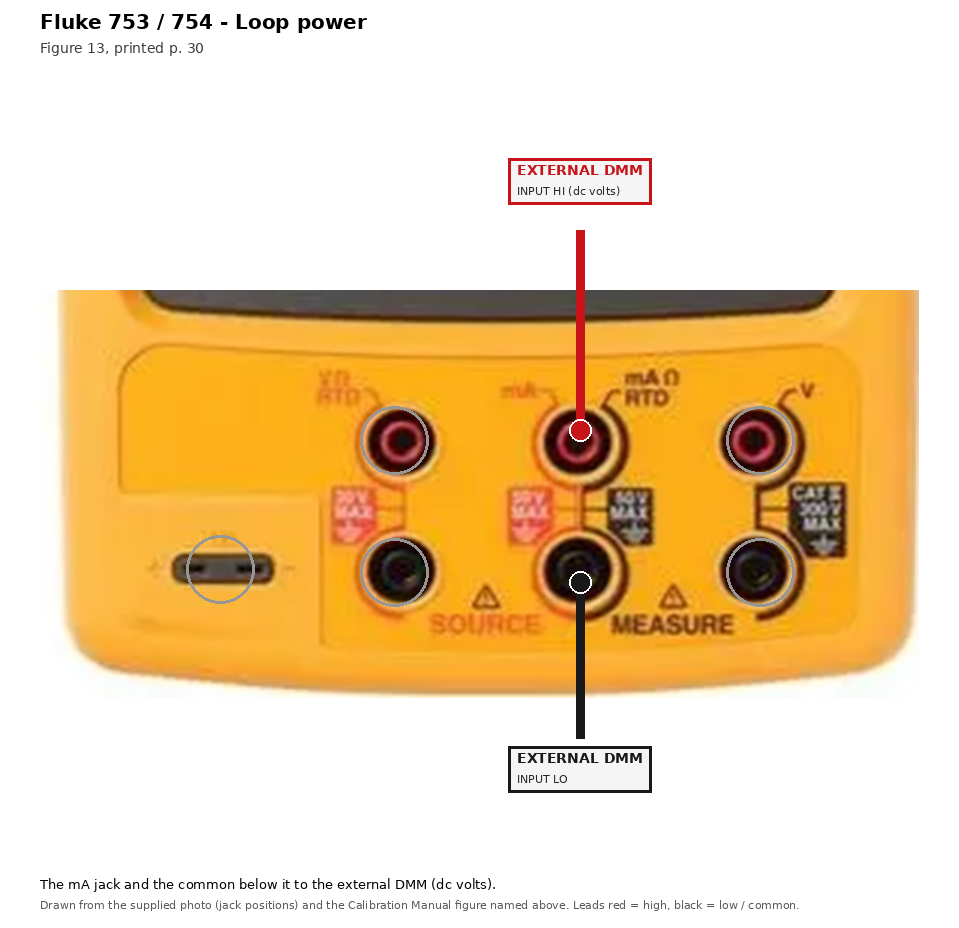
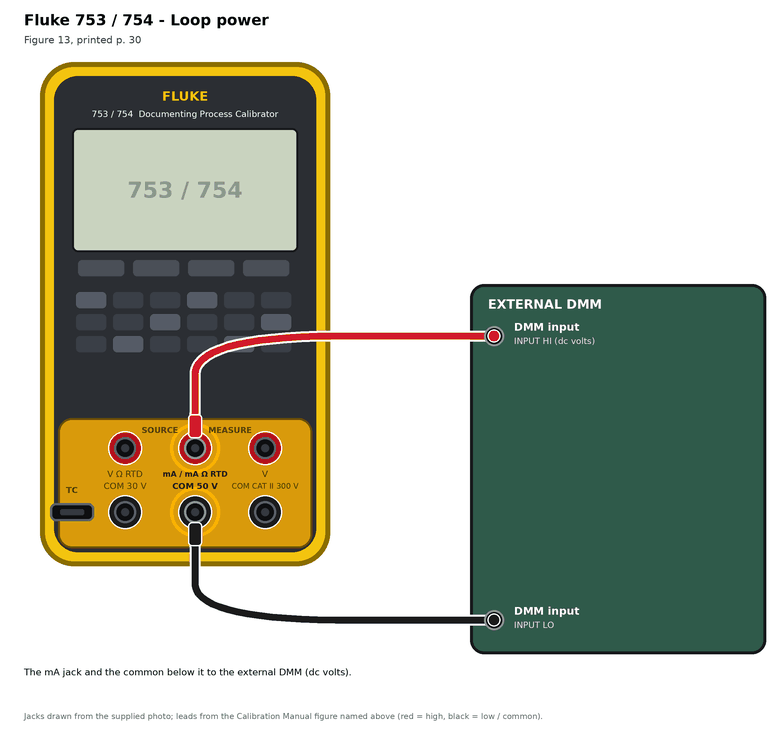
Fluke 753/754 hook-up diagrams redrawn as vectors in the handheld-meter style
Drawn 753/754 body with its jack block and TC mini-jack, drawn other-end
instrument, routed cables with white outline, used jacks ringed. Jack
positions and lead assignments unchanged (still the manual figures; the
UNVERIFIED notes are kept). Calibrator-independent: both 5522A and 5560A
terminal names are on each cable end.

Claude-Session: https://claude.ai/code/session_01VmnunfVAogpKCCPBXbw9cZ

diff --git a/specs/build_hookups_753.py b/specs/build_hookups_753.py
@@ -15,7 +15,7 @@ from __future__ import annotations
 
 from pathlib import Path
 
-from PIL import Image, ImageDraw, ImageFont
+import sys
 
 HERE = Path(__file__).resolve().parent
 ROOT = HERE.parent
@@ -73,72 +73,148 @@ GROUPS = {
 }
 
 
-def font(size, bold=False):
-    return ImageFont.truetype(FONT + ('DejaVuSans-Bold.ttf' if bold else 'DejaVuSans.ttf'), size)
+HERE_ = HERE
+sys.path.insert(0, str(HERE))
+from draw_kit import Pen, smooth                      # noqa: E402
+
+W, H = 780, 730
+YEL, FACE, EDGE = '#f3c40f', '#2b2e33', '#8a6d00'
+CABLE = {RED: '#d11a2a', BLACK: '#1b1b1b', GREY: '#e3b800'}
+AMBER = '#ffb300'
+# jacks drawn like the owner's photo: top row V Ohm RTD | mA, mA Ohm RTD | V (red surrounds), bottom row the three commons, TC mini-jack lower left
+DRAW = {'tl': (125, 448), 'tm': (195, 448), 'tr': (265, 448), 'bl': (125, 512), 'bm': (195, 512), 'br': (265, 512), 'tc': (72, 512)}
+LABEL = {'tl': 'V Ω RTD', 'tm': 'mA / mA Ω RTD', 'tr': 'V', 'bl': 'COM 30 V', 'bm': 'COM 50 V', 'br': 'COM CAT II 300 V'}
+TOP_LANES, BOTTOM_LANES = (336, 386), (620, 580)     # a lead from further left takes the lane further out, so no two cables cross
+DEV_X = 470
+
+
+def wrap(pen, text, size, width):
+    lines = []
+    for part in text.split('|'):
+        cur = ''
+        for word in part.strip().split():
+            if cur and pen.text_size(cur + ' ' + word, size, False)[0] > width:
+                lines.append(cur)
+                cur = word
+            else:
+                cur = (cur + ' ' + word).strip()
+        if cur:
+            lines.append(cur)
+    return lines
+
+
+def draw_753(pen, used, jumpers):
+    pen.rect(40, 62, 330, 566, r=34, fill=YEL, outline=EDGE, width=5)
+    pen.rect(54, 76, 316, 552, r=24, fill=FACE)
+    pen.text(185, 96, 'FLUKE', 13, YEL)
+    pen.text(185, 114, '753 / 754  Documenting Process Calibrator', 8.5, '#ffffff', bold=False)
+    pen.rect(72, 128, 298, 252, r=6, fill='#c9d3bf', outline='#16181b', width=2)
+    pen.text(185, 190, '753 / 754', 22, '#8e9a84')
+    for i in range(4):                                                  # soft keys
+        pen.rect(78 + i * 55, 260, 124 + i * 55, 276, r=4, fill='#4a4f57')
+    for r in range(3):                                                  # key block
+        for c in range(6):
+            pen.rect(76 + c * 37, 292 + r * 22, 106 + c * 37, 308 + r * 22, r=4, fill='#3a3f47' if (r + c) % 3 else '#555b66')
+    pen.rect(58, 418, 312, 548, r=14, fill='#d99a0b', outline='#6b4f00', width=2)          # the terminal panel (the owner's photo: orange-yellow plate)
+    for key, (x, y) in DRAW.items():
+        if key == 'tc':
+            pen.rect(x - 22, y - 9, x + 22, y + 9, r=6, fill='#0d0e10', outline='#8b919b' if key in used else '#5c626c', width=2.4)
+            pen.rect(x - 12, y - 3, x + 12, y + 3, r=2, fill='#333840')
+            if key in used:
+                pen.rect(x - 28, y - 15, x + 28, y + 15, r=9, outline=AMBER, width=3.2)
+            continue
+        ring = '#b3121c' if key[0] == 't' else '#1b1b1b'
+        if key in used:
+            pen.circle(x, y, 25, outline=AMBER, width=3.6)
+        pen.circle(x, y, 17, fill=ring, outline='#ffffff', width=1.6)
+        pen.circle(x, y, 11, fill='#0d0e10', outline='#8b919b' if key in used else '#5c626c', width=2.4)
+        pen.circle(x, y, 4, fill='#333840')
+
+
+def draw_labels(pen, used):
+    for key, text in LABEL.items():
+        x, y = DRAW[key]
+        y = y + 26 if key[0] == 't' else y - 26
+        size = 7.6 if len(text) > 8 else 8.4
+        pen.text(x, y, text, size, '#1b1b1b' if key in used else '#4a3300', bold=key in used)
+    pen.text(160, 430, 'SOURCE', 8, '#4a3300')
+    pen.text(230, 430, 'MEASURE', 8, '#4a3300')
+    x, y = DRAW['tc']
+    pen.text(x, y - 22, 'TC', 8.4, '#1b1b1b' if 'tc' in used else '#4a3300')
+
+
+def cable(pen, pts, color, width=7):
+    pts = smooth(pts, 4)
+    pen.line(pts, '#ffffff', width + 4)
+    pen.line(pts, color, width)
 
 
 def draw(group):
     title, figure, leads, jumpers, note = GROUPS[group]
-    photo = Image.open(PHOTO).convert('RGB')
-    pw, ph = photo.width * S, photo.height * S
-    photo = photo.resize((pw, ph), Image.LANCZOS)
-    top, bottom, side = 290, 230, 40
-    W, H = pw + 2 * side, ph + top + bottom
-    im = Image.new('RGB', (W, H), (255, 255, 255))
-    d = ImageDraw.Draw(im)
-    im.paste(photo, (side, top))
-    pos = {k: (side + x * S, top + y * S) for k, (x, y) in JACK.items()}
-    d.text((side, 10), f'Fluke 753 / 754 - {title}', font=font(20, True), fill=(0, 0, 0))
-    d.text((side, 40), figure, font=font(14), fill=(60, 60, 60))
+    pen = Pen(W, H, '#ffffff')
+    pen.text(24, 20, f'Fluke 753 / 754 - {title}', 15, '#000000', anchor='lm')
+    pen.text(24, 40, figure, 10, '#3c3c3c', bold=False, anchor='lm')
     used = {j for j, _c, _t in leads} | {a for a, b in jumpers} | {b for a, b in jumpers}
-    for k, (cx, cy) in pos.items():                                # the jacks not used: a grey cross-hatch ring so the used ones stand out
-        if k not in used:
-            d.ellipse([cx - 34, cy - 34, cx + 34, cy + 34], outline=(150, 150, 150), width=3)
-    # leads: top jacks go up to boxes above, bottom jacks go down; several leads on one jack fan out
-    groups = {}
+    draw_753(pen, used, jumpers)
+    # one plug per lead; leads on the same jack sit side by side
+    per = {}
     for lead in leads:
-        groups.setdefault(lead[0], []).append(lead)
-    boxes = []
-    for jack, items in groups.items():
-        cx, cy = pos[jack]
-        up = jack[0] == 't' and jack != 'tc'
-        for n, (j, colour, (l1, l2)) in enumerate(items):
-            dx = (n - (len(items) - 1) / 2) * 26
-            if jack == 'tc':
-                end = (side + 10 + n * 10, top + ph + 20 + n * 40)
-                start = (cx + (n - 0.5) * 16, cy)
-                bx, by = side, top + ph + 70 + n * 70
-            elif up:
-                start, end = (cx + dx * 0.4, cy - 10), (cx + dx, top - 60 - n * 0)
-                bx, by = cx + dx, top - 130
-            else:
-                start, end = (cx + dx * 0.4, cy + 10), (cx + dx, top + ph + 40)
-                bx, by = cx + dx, top + ph + 60
-            d.line([start, end], fill=colour, width=9)
-            d.ellipse([start[0] - 11, start[1] - 11, start[0] + 11, start[1] + 11], fill=colour, outline=(255, 255, 255), width=2)
-            boxes.append((bx, by, l1, l2, colour, up, jack))
-    for a, b in jumpers:
-        (ax, ay), (bx2, by2) = pos[a], pos[b]
-        d.arc([min(ax, bx2), ay - 10, max(ax, bx2), ay + 70], 0, 180, fill=BLACK, width=7)
-    # text boxes, spaced so they do not overlap
+        per.setdefault(lead[0], []).append(lead)
+    plugs = []
+    for jack, items in per.items():
+        for n, lead in enumerate(items):
+            x = DRAW[jack][0] + (n - (len(items) - 1) / 2) * 20
+            plugs.append((x, jack, lead))
+    plugs.sort(key=lambda t: t[0])
+    top = [p for p in plugs if p[1][0] == 't' and p[1] != 'tc']
+    bottom = [p for p in plugs if p[1][0] == 'b' or p[1] == 'tc']
     placed = []
-    for bx, by, l1, l2, colour, up, jack in sorted(boxes, key=lambda b: (b[5], b[0])):
-        w = max(d.textlength(l1, font=font(14, True)), d.textlength(l2, font=font(11))) + 16
-        x0 = bx - w / 2
-        row = 0
-        x0 = min(max(side - 30, x0), W - w - 4)
-        while any(x0 < px + pw_ + 6 and px < x0 + w + 6 and pr == row and pu == up for px, pw_, pr, pu in placed):
-            row += 1
-        placed.append((x0, w, row, up))
-        y0 = (top - 132 - row * 56) if up else (top + ph + 48 + row * 52)
-        d.rectangle([x0, y0, x0 + w, y0 + 46], fill=(245, 245, 245), outline=colour, width=3)
-        d.text((x0 + 8, y0 + 4), l1, font=font(14, True), fill=colour if colour != GREY else (0, 0, 0))
-        d.text((x0 + 8, y0 + 26), l2, font=font(11), fill=(40, 40, 40))
-    d.text((side, H - 52), note, font=font(13), fill=(0, 0, 0))
-    d.text((side, H - 30), 'Drawn from the supplied photo (jack positions) and the Calibration Manual figure named above. Leads red = high, black = low / common.', font=font(11), fill=(90, 90, 90))
+    for lanes, group_, down in ((TOP_LANES, top, False), (BOTTOM_LANES, bottom, True)):
+        ys = list(lanes[:len(group_)])
+        ys = sorted(ys) if not down else sorted(ys, reverse=True)
+        for (x, jack, lead), lane in zip(group_, ys):
+            placed.append((x, jack, lead, lane, down))
+    dev_lo = min(l for *_a, l, _d in placed) - 52
+    dev_hi = max(l for *_a, l, _d in placed) + 34
+    kind = DEVICE.get(group, ('OTHER END', '#3d4f66'))
+    pen.rect(DEV_X, dev_lo, W - 14, dev_hi, r=14, fill=kind[1], outline='#16181b', width=3)
+    pen.text(DEV_X + 18, dev_lo + 20, kind[0], 12.5, '#ffffff', anchor='lm')
+    titles = {l[2][0] for l in leads}
+    for x, jack, (j, colour, (l1, l2)), lane, down in placed:
+        jy = DRAW[jack][1]
+        c = CABLE[colour]
+        y_end = jy + (34 if down else -34)
+        if jack == 'tc':
+            y_end = jy + 34
+        cable(pen, [(DEV_X + 24, lane), (x, lane), (x, y_end)], c)
+        y0, y1 = (jy + 10, jy + 34) if (down or jack == 'tc') else (jy - 34, jy - 10)
+        pen.rect(x - 7, y0, x + 7, y1, r=4, fill=c, outline='#ffffff', width=1.5)
+        pen.circle(DEV_X + 24, lane, 10, fill='#0d0e10', outline='#8b919b', width=2.2)
+        pen.circle(DEV_X + 24, lane, 6.4, fill=c, outline='#ffffff', width=1.6)
+        if l1 != kind[0]:
+            pen.text(DEV_X + 44, lane - 9, l1, 10.5, '#ffffff', anchor='lm')
+        else:
+            pen.text(DEV_X + 44, lane - 9, {'EXTERNAL DMM': 'DMM input'}.get(l1, l1), 10.5, '#ffffff', anchor='lm')
+        for i, line in enumerate(wrap(pen, l2, 8.6, W - 14 - (DEV_X + 44) - 8)[:3]):
+            pen.text(DEV_X + 44, lane + 5 + i * 11, line, 8.6, '#dfe6ee', bold=False, anchor='lm')
+    for a, b in jumpers:                                                # a jumper plug between two jacks, drawn under them
+        (ax, ay), (bx, by) = DRAW[a], DRAW[b]
+        bx -= 10 * len(per.get(b, ())) if per.get(b) else 0
+        cable(pen, [(ax, ay + 12), (ax, ay + 26), (bx, ay + 26), (bx, ay + 12)], BLACK, 6)
+    draw_labels(pen, used)
+    for n, line in enumerate(wrap(pen, note, 9.5, W - 48)[:3]):
+        pen.text(24, H - 58 + n * 14, line, 9.5, '#000000', bold=False, anchor='lm')
+    pen.text(24, H - 14, 'Jacks drawn from the supplied photo; leads from the Calibration Manual figure named above (red = high, black = low / common).', 8, '#5a6475', bold=False, anchor='lm')
     path = OUT / f'hook_fluke753_{group}.png'
-    im.save(path)
+    pen.save(path)
     return path
+
+
+DEVICE = {'MEAS_V': ('CALIBRATOR', '#3d4f66'), 'MEAS_MA': ('CALIBRATOR + 3458A', '#3d4f66'), 'MEAS_OHM': ('CALIBRATOR', '#3d4f66'),
+          'MEAS_TC': ('CALIBRATOR', '#3d4f66'), 'MEAS_RTD4': ('CALIBRATOR', '#3d4f66'), 'MEAS_RTD3': ('CALIBRATOR', '#3d4f66'),
+          'SRC_V': ('EXTERNAL DMM', '#2f5a4a'), 'SRC_MA': ('EXTERNAL DMM', '#2f5a4a'), 'SRC_SIM': ('CALIBRATOR + DMM', '#3d4f66'),
+          'SRC_OHM': ('EXTERNAL DMM', '#2f5a4a'), 'SRC_FREQ': ('COUNTER / SCOPEMETER', '#5a4a2f'), 'SRC_TC': ('LAG BATH + DMM', '#5a4a2f'),
+          'LOOP': ('EXTERNAL DMM', '#2f5a4a'), 'HART': ('HART TRANSMITTER', '#5a4a2f')}
 
 
 def main():
